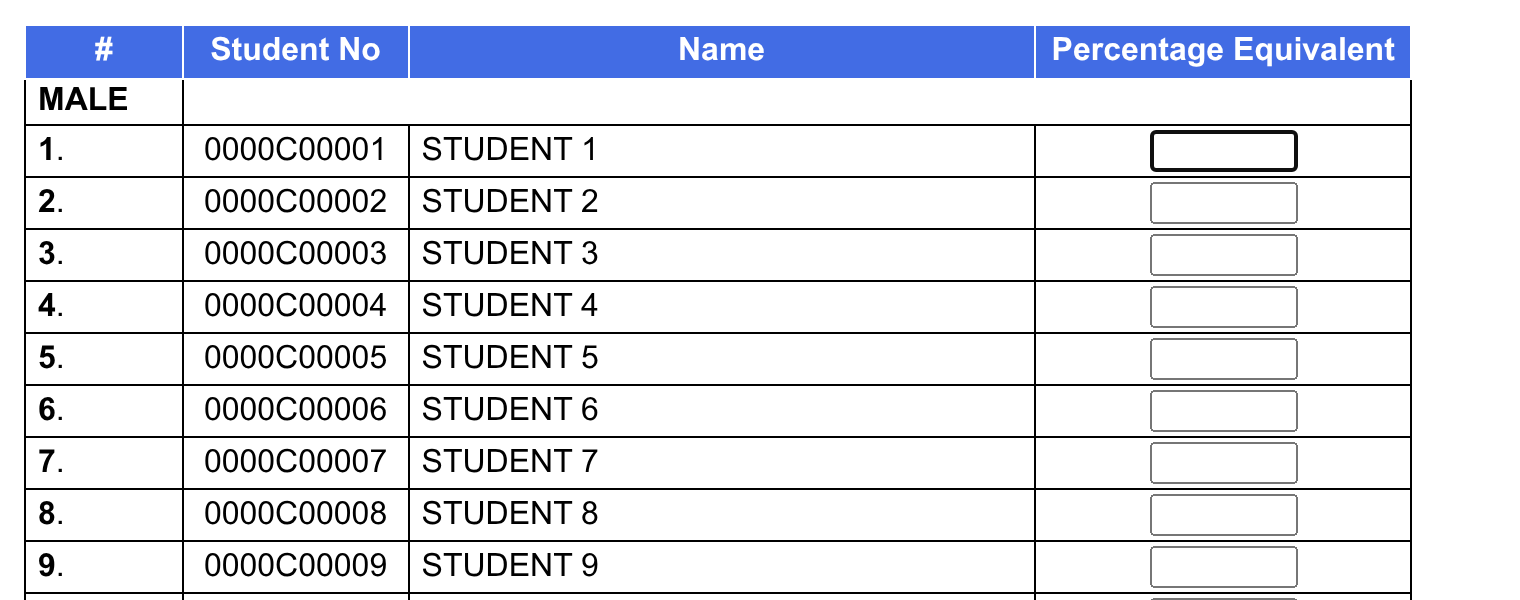
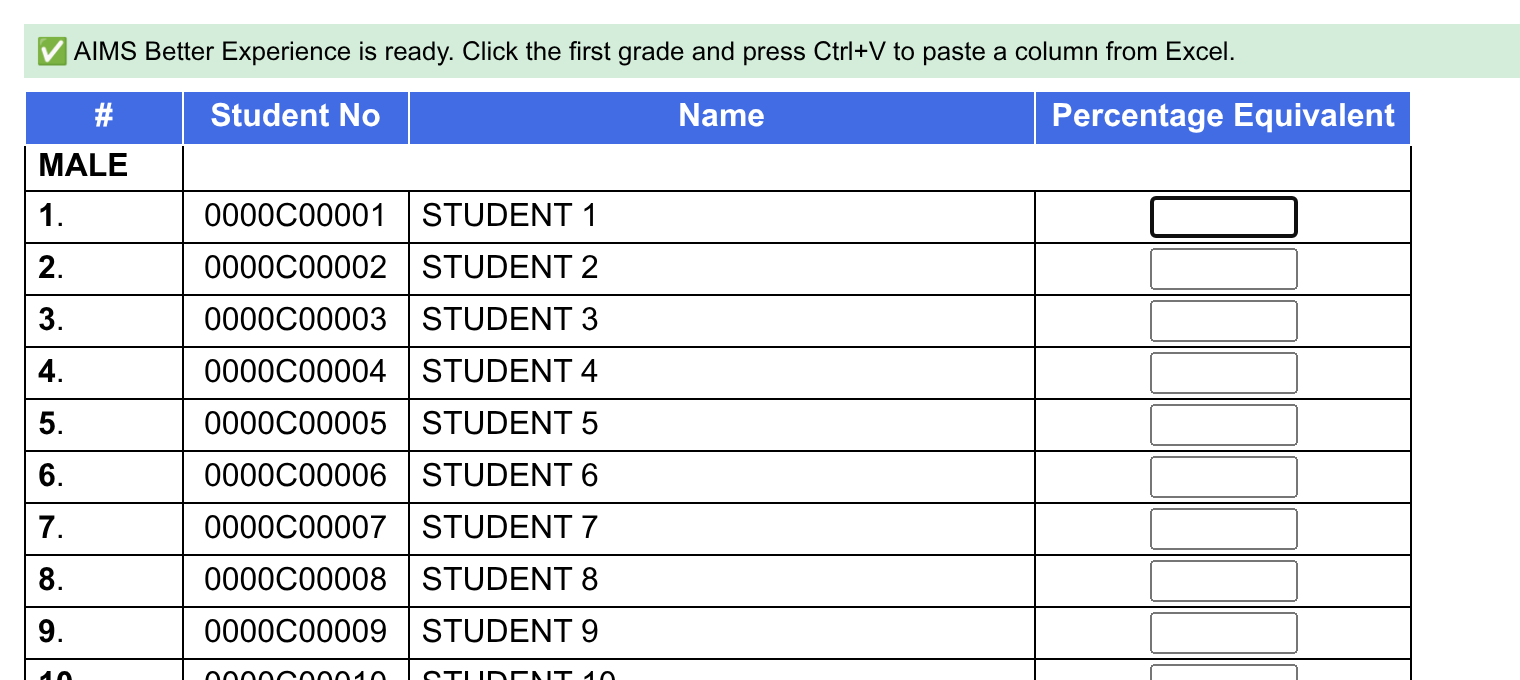
Ignore blank rows in grade paste and add a ready hint
- A blank row in the pasted column does not use a student position.
  In the Excel sheets it is the divider row between MALE and FEMALE.
- Show a hint line above the student list when the period dialog opens.
- Update the test, the README manual test and the grade screenshots.

Changed region(s): [[0.0, 0.03, 1.0, 1.0]]

diff --git a/src/content/gradesheet-paste.js b/src/content/gradesheet-paste.js
@@ -9,27 +9,28 @@
     (/^\d+(\.\d+)?$/.test(val) && Number(val) <= 100);
 
   // --- 1. PASTE A COLUMN FROM EXCEL ---
-  // Row 1 goes to the focused student. The next rows go to the students below.
+  // Value 1 goes to the focused student. The next values go to the students below.
+  // Blank rows are ignored. In Excel they are divider rows (MALE / FEMALE).
   const handlePaste = async (e) => {
     const active = document.activeElement;
     if (!active.matches(GRADE_INPUT)) return;
 
     e.preventDefault();
-    const rows = e.clipboardData
+    // If the copy has more than one column, the grade is the last column.
+    const values = e.clipboardData
       .getData('text')
-      .replace(/\r?\n$/, '')
-      .split(/\r?\n/);
+      .split(/\r?\n/)
+      .map((row) => row.split('\t').pop().trim())
+      .filter((val) => val !== '');
     const inputs = Array.from(document.querySelectorAll(GRADE_INPUT));
     const start = inputs.indexOf(active);
 
-    for (let i = 0; i < rows.length; i++) {
+    for (let i = 0; i < values.length; i++) {
       const input = inputs[start + i];
       if (!input) break;
+      if (input.readOnly) continue;
 
-      // If the copy has more than one column, the grade is the last column.
-      const val = rows[i].split('\t').pop().trim();
-      // An empty cell does not erase a saved grade.
-      if (val === '' || input.readOnly) continue;
+      const val = values[i];
 
       if (!isValidGrade(val)) {
         input.style.backgroundColor = '#ffccd5'; // Error Red
@@ -45,8 +46,21 @@
     }
   };
 
-  // --- 2. SAVE RESULT ---
+  // --- 2. READY HINT AND SAVE RESULT ---
   $(document).ajaxComplete((e, xhr, settings) => {
+    // The period dialog loaded its inputs.
+    if (settings.url.includes('entry.component.php')) {
+      $(GRADE_INPUT)
+        .not('[readonly]')
+        .first()
+        .closest('table')
+        .before(
+          '<p style="background:#d4edda;padding:6px;margin:0 0 6px">' +
+            '✅ AIMS Better Experience is ready. Click the first grade and ' +
+            'press Ctrl+V to paste a column from Excel.</p>',
+        );
+      return;
+    }
     if (!settings.url.includes('save.grade.scompo.php')) return;
 
     const gid = new URLSearchParams(settings.data).get('gid');

diff --git a/tests/paste.test.js b/tests/paste.test.js
@@ -58,6 +58,10 @@ test('grade paste saves the valid grades of an Excel column', async () => {
   );
   const inputs = page.locator("input[gtype='mc']");
 
+  // The site loads the dialog inputs with this request.
+  await page.evaluate(() => $.post('../gs_2/entry.component.php'));
+  await page.getByText('AIMS Better Experience is ready').waitFor();
+
   await inputs.first().focus();
   await paste(page, 'A\t90\r\nB\t\r\nC\t101\r\nD\tINC\r\n');
   await page.waitForTimeout(500);
@@ -66,7 +70,7 @@ test('grade paste saves the valid grades of an Excel column', async () => {
     saves.map((s) => [s.gid, s.grade]),
     [
       ['1001', '90'],
-      ['1004', 'INC'],
+      ['1003', 'INC'],
     ],
   );
   assert.deepStrictEqual(
@@ -75,9 +79,9 @@ test('grade paste saves the valid grades of an Excel column', async () => {
     ),
     [
       ['90', 'rgb(212, 237, 218)'], // saved
-      ['', ''], // empty cell: no change
       ['', 'rgb(255, 204, 213)'], // above 100: not saved
-      ['INC', 'rgb(212, 237, 218)'], // saved
+      ['INC', 'rgb(212, 237, 218)'], // saved. The blank row is ignored.
+      ['', ''],
     ],
   );
 

diff --git a/README.md b/README.md
@@ -69,12 +69,14 @@ Grade paste:
 
 1. Open **Grading Sheet**, select a period and click **Search**.
 2. Click a section. Then click the period column header.
-3. Copy three grades from an Excel column.
-4. Click the grade input of the first student and press Ctrl+V.
-5. Make sure that the three inputs become green.
-6. Close the dialog and open the section again. Make sure that the three grades are there.
-7. Paste a column that has the value `101`. Make sure that this input becomes red and stays empty.
-8. Press Arrow Down, Arrow Up and Enter. Make sure that the focus moves between students.
+3. Make sure that the green hint line of the extension is above the student list.
+4. Copy three grades from an Excel column.
+5. Click the grade input of the first student and press Ctrl+V.
+6. Make sure that the three inputs become green.
+7. Close the dialog and open the section again. Make sure that the three grades are there.
+8. Paste a column that has a blank row. Make sure that no student is skipped.
+9. Paste a column that has the value `101`. Make sure that this input becomes red and stays empty.
+10. Press Arrow Down, Arrow Up and Enter. Make sure that the focus moves between students.
 
 Attendance paste:
 
